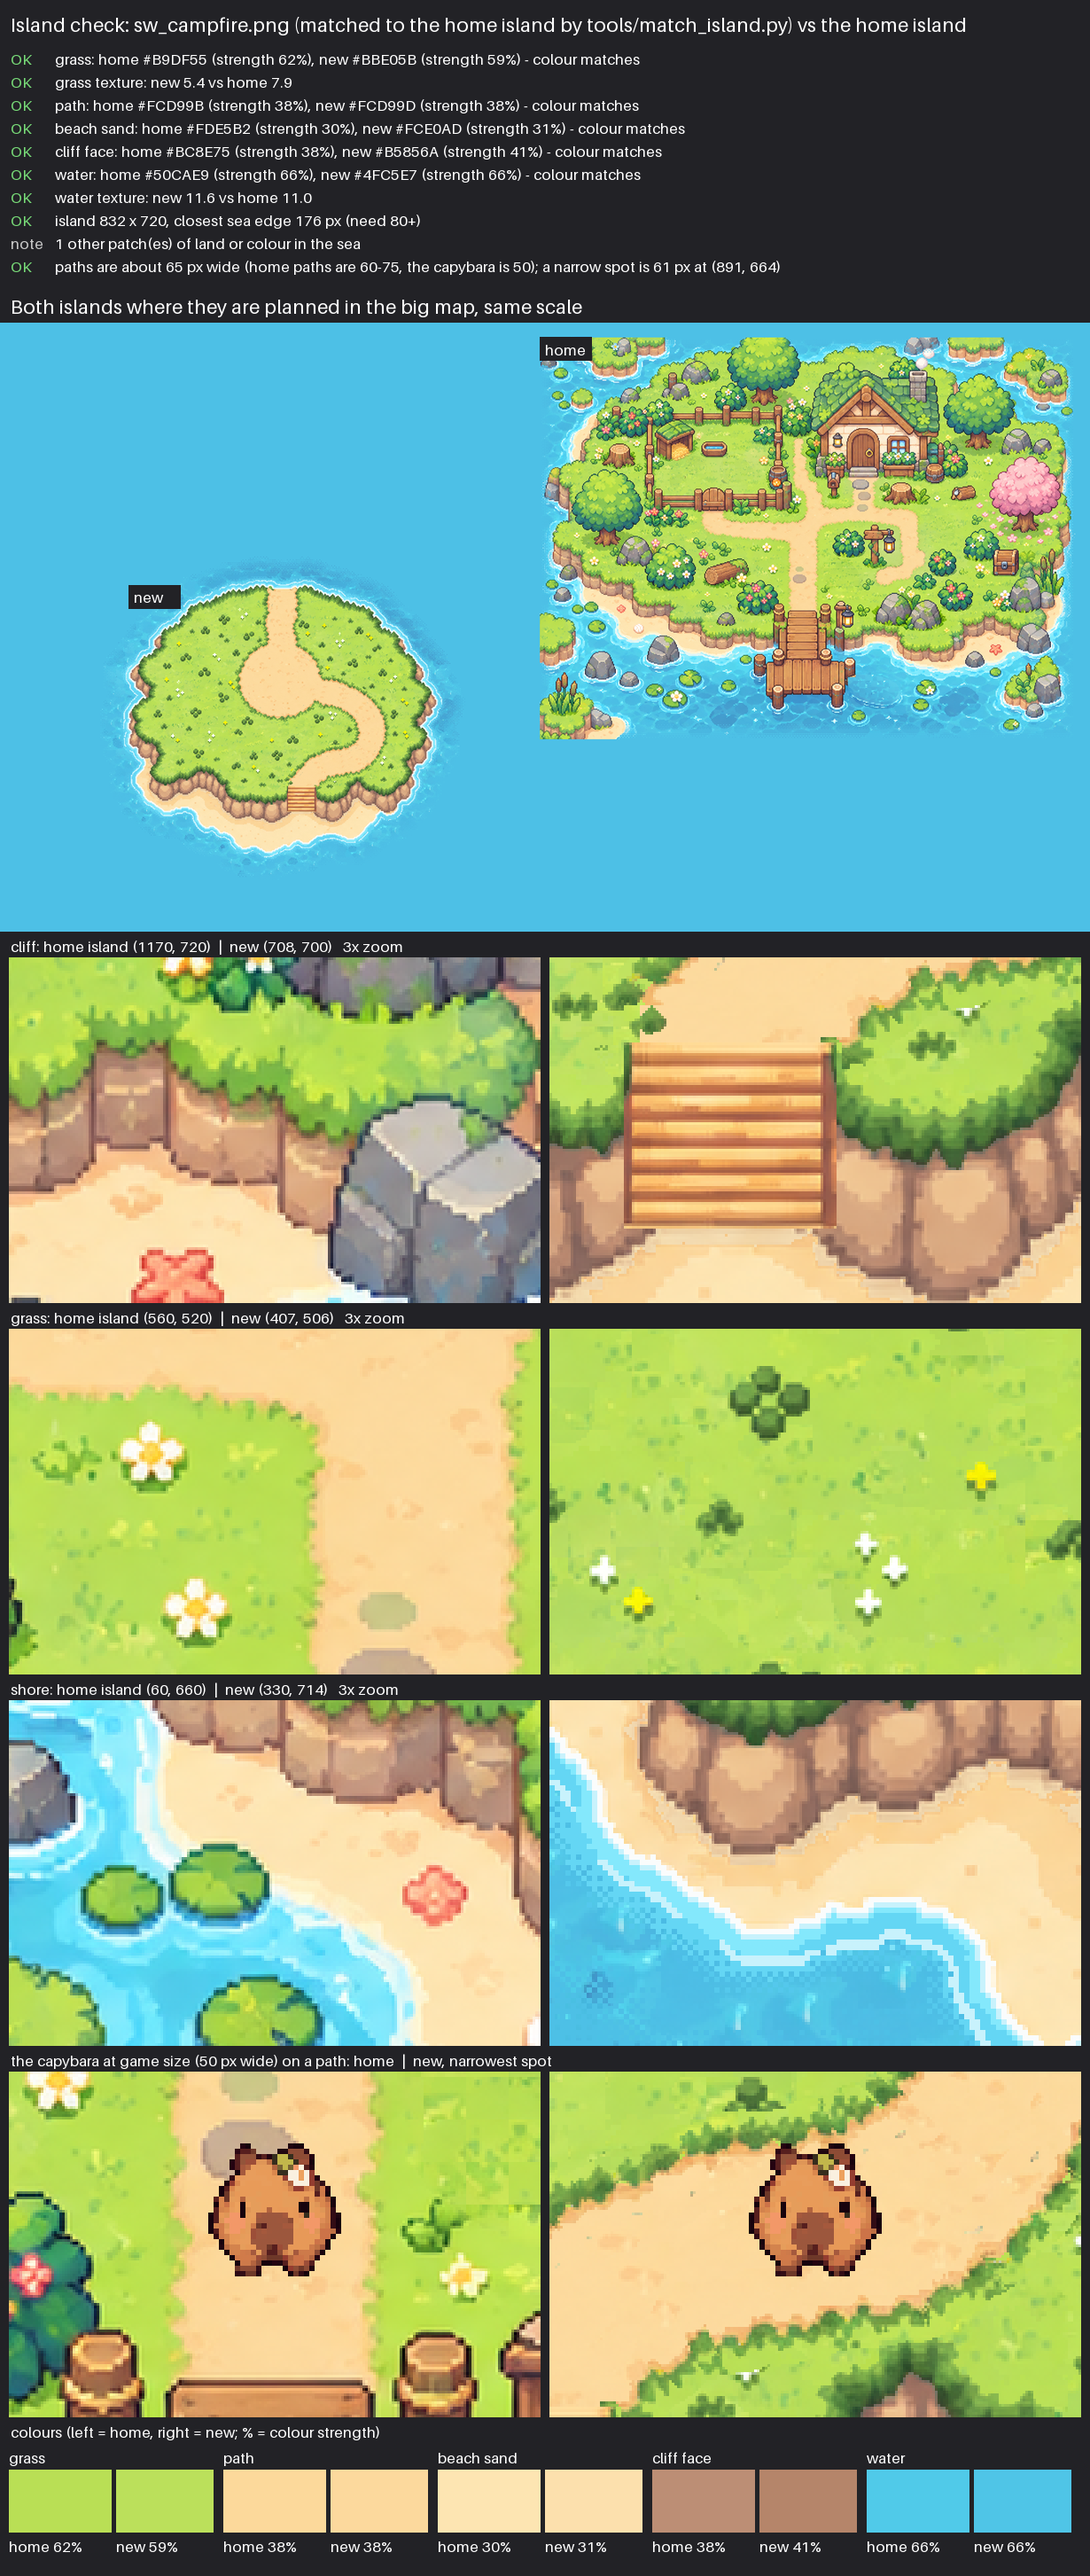
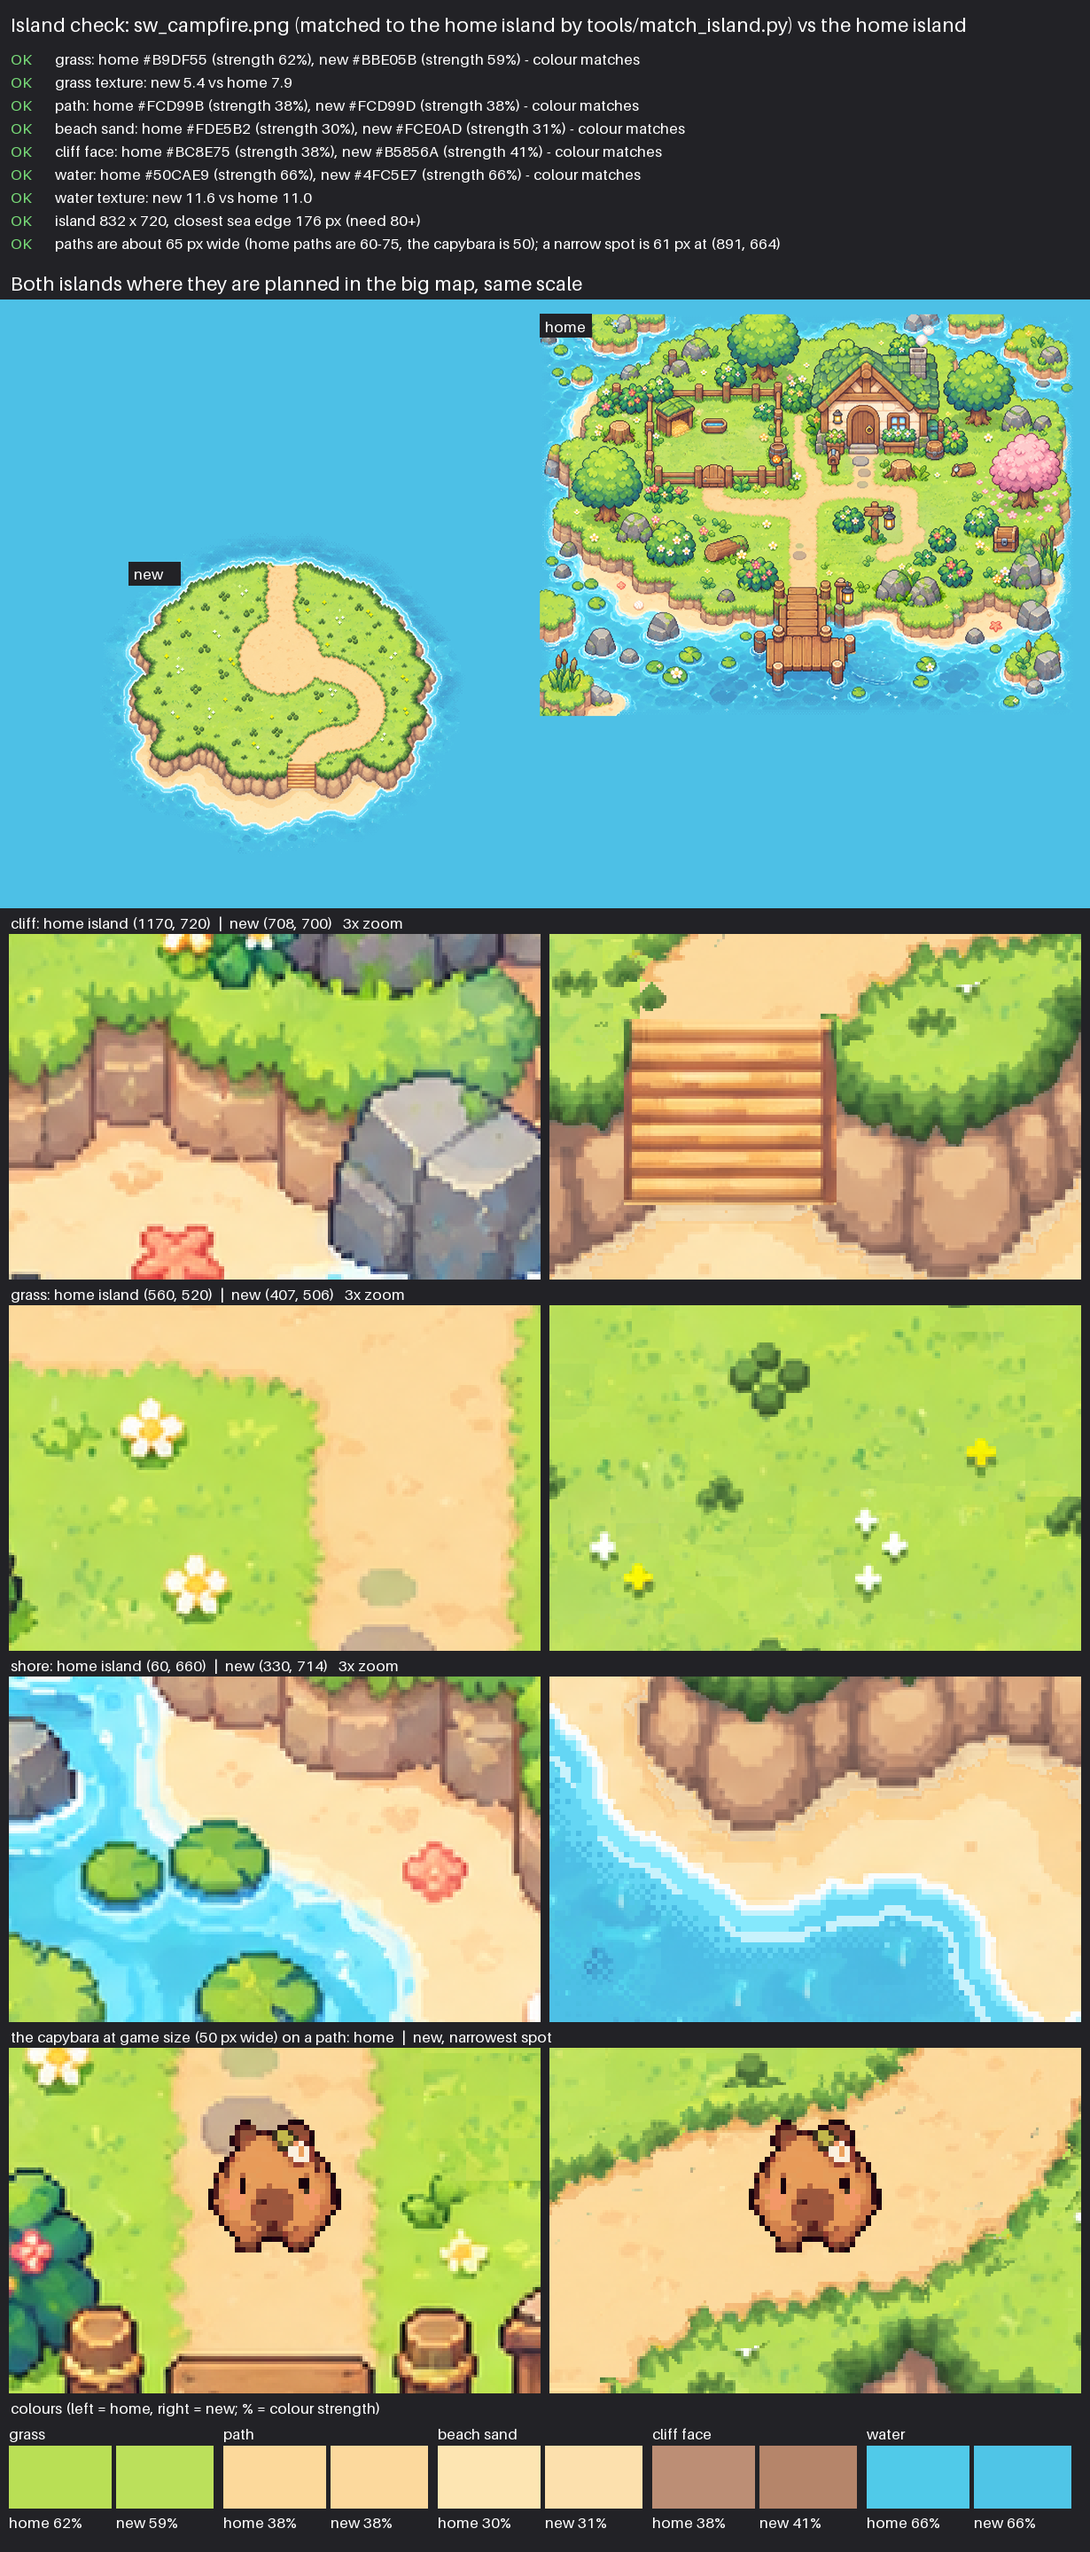
Ready the tools for the islets picture and add its ChatGPT prompt
The islets are eight small islands in one picture, but match_island.py
kept only the biggest piece of land and review_island.py measured only
the biggest island. Both now keep every island (not specks). Doing so
showed two hidden bugs, now fixed: a clean-up step made a hairline
"island" around the picture's border, and the review took the see-
through band outside a piece's fade for land. Both finished islands
check exactly as before.

The ChatGPT prompt asks for a zip with just islets.png inside.

Claude-Session: https://claude.ai/code/session_019WA1pPMdMXVRsKT4arc6i6

diff --git a/tools/review_island.py b/tools/review_island.py
@@ -186,7 +186,8 @@ def main():
     nm = materials(new)
     _, s_new, v_new = hsv(new)
     foam = (v_new > 0.88) & (s_new < 0.12)
-    shore_water = ndimage.distance_transform_edt(nm["water"] | foam) <= 100
+    all_water = nm["water"] | foam                      # for finding the land: every bit of water
+    shore_water = ndimage.distance_transform_edt(all_water) <= 100
     nm["water"] &= shore_water
     if alpha is not None:
         nm["water"] &= alpha >= 128      # only the piece's own water, not the plain sea shown through it
@@ -218,14 +219,18 @@ def main():
                 say(True, f"{NAMES[key]} texture: new {b['tex']:.1f} vs home {a['tex']:.1f}")
 
     # ---- size and sea around the island
-    land = ndimage.binary_opening(~(nm["water"] | ~shore_water) & ~foam, iterations=2)
+    land = ndimage.binary_opening(~all_water, iterations=2)
     lab, n = ndimage.label(land)
     sizes = ndimage.sum(land, lab, range(1, n + 1))
-    big = lab == 1 + int(np.argmax(sizes))
-    ys, xs = np.nonzero(big)
+    keep = 1 + np.flatnonzero(sizes >= max(2000, 0.02 * sizes.max()))    # every island, not specks
+    biggest = lab == 1 + int(np.argmax(sizes))
+    by, bx = np.nonzero(biggest)
+    ys, xs = np.nonzero(np.isin(lab, keep))
     margin = min(xs.min(), ys.min(), W - 1 - xs.max(), H - 1 - ys.max())
-    say(margin >= 80, f"island {xs.max() - xs.min() + 1} x {ys.max() - ys.min() + 1}, closest sea edge {margin} px (need 80+)")
-    specks = int(sum(1 for s in sizes if s > 200)) - 1
+    size = f"{bx.max() - bx.min() + 1} x {by.max() - by.min() + 1}"
+    what = f"island {size}" if len(keep) == 1 else f"{len(keep)} islands, the biggest {size}"
+    say(margin >= 80, f"{what}, closest sea edge {margin} px (need 80+)")
+    specks = int(sum(1 for a in sizes if 200 < a < max(2000, 0.02 * sizes.max())))
     if specks > 0:
         say(None, f"{specks} other patch(es) of land or colour in the sea")
 

diff --git a/tools/match_island.py b/tools/match_island.py
@@ -156,10 +156,11 @@ def segment(img, stairs_boxes=()):
     wl, _ = ndimage.label(white)
     touching = np.unique(wl[ndimage.binary_dilation(blue, iterations=2) & white])
     sea = blue | np.isin(wl, touching[touching > 0])
-    sea = ndimage.binary_closing(sea, iterations=2)
+    sea = ndimage.binary_closing(sea, iterations=2, border_value=1)   # beyond the picture is sea too
+    # every island in the picture (the islets picture has several); specks in the sea don't count
     lab, n = ndimage.label(~sea)
     sizes = ndimage.sum(~sea, lab, range(1, n + 1))
-    land = lab == 1 + int(np.argmax(sizes))
+    land = np.isin(lab, 1 + np.flatnonzero(sizes >= max(2000, 0.02 * sizes.max())))
     land = ndimage.binary_fill_holes(land)
     greenish = (h > 55) & (h < 150) & (s > 0.2) & (v > 0.15)
     yellow = (h >= 48) & (h <= 68) & (s > 0.7) & (v > 0.8)

diff --git a/HANDOFF.md b/HANDOFF.md
@@ -15,7 +15,8 @@ The folder is also on GitHub now: `paper-rockets/pixel-world`, work branch `clau
 
 - **Campfire** (`check/review_sw_campfire.png`, `check/match_sw_campfire.png`): Codex's grass was too strong and flat, the cliffs round orange boulders, the water flat, and the path (~40 px) and stairs (~50 px) only as wide as the capybara. The user asked whether Claude could fix it instead of Codex: `match_island.py` fixed everything but the rounded cliff blocks. Rebuilding those from the home island's slabs looked worse (streaky), so it was dropped.
 - **Meadow** (`check/review_se_meadow.png`, `check/match_se_meadow.png`): the user was away from Codex and used ChatGPT with `concepts/archipelago/CHATGPT_2_se_meadow.md` and three numbered reference pictures. It came out much closer than Codex's first try: ground only, flat tan slab cliffs, textured grass, wide stairs. It needed stronger colours softened, paths widened from ~46 to ~62 px, and 26 px of sea added around it (the land came within 58 px of the picture's edge). The user's zip (`island_ground_only_complete_set.zip`) also had `se_meadow_alt_no_water.png`: that is a different drawing, not a cut-out of `se_meadow.png` (tall pillar cliffs, a small rock, no stairs, land almost touching the edges). It's kept as a spare and not used.
-- **Next islands:** `w_caves_pinktree` (has a pond), `n_orchard` (tilled soil beds), `ne_pond` (a pond) and `islets`. `match_island.py` can't handle ponds or soil yet (see "Fixing new island art"), so either add that first or do `islets` next. Reuse the ChatGPT prompt shape: numbered reference pictures, "picture 1, 2, 3", ground only, and the sizes stated against the pictures.
+- **In progress: the islets**, with ChatGPT: `concepts/archipelago/CHATGPT_3_islets.md` (three numbered reference pictures; ChatGPT hands back a zip with just `islets.png`). Both tools now handle several islands in one picture.
+- **Next islands:** `w_caves_pinktree` (has a pond), `n_orchard` (tilled soil beds), `ne_pond` (a pond) and `islets`. `match_island.py` can't handle ponds or soil yet (see "Fixing new island art"), so either add that first or do `islets` next. Reuse the ChatGPT prompt shape: numbered reference pictures, "picture 1, 2, 3", ground only, the sizes stated against the pictures, and "give it to me as a .zip with just this one picture inside" (the user asked for zips; they come back through the chat as uploads).
 - Other prompts on file: `concepts/archipelago/CODEX_2_next_island.md` (the meadow for Codex, with the updated style rules), and `concepts/archipelago/CODEX_FIX_1_sw_campfire.md` (a Codex redraw of the campfire island, if flat-slab cliffs are ever wanted there). `concepts/archipelago/CODEX_PROMPT.md` has the measured palette, the cliff shape, the texture rule, and the real path and stair widths.
 - The game itself is the normal small Sunny Meadow and works. Both published links were updated on 2026-09-28 with the hiding-spot wiggle fix (Lost Ducklings version 9, Orange Garden version 5).
 

diff --git a/concepts/archipelago/CHATGPT_3_islets.md b/concepts/archipelago/CHATGPT_3_islets.md
@@ -1,0 +1,31 @@
+# ChatGPT image prompt 3: the islets
+
+For ChatGPT image generation. Attach these three pictures, in this order, with the prompt:
+
+1. `source_art/school/ground/map_ground.png`: a finished ground-only map (the style to copy)
+2. `source_art/tiny_map.png`: the home island (the style and the scale)
+3. `concepts/archipelago/ref_islets.png`: concept sketch of the islets (the look)
+
+ChatGPT delivers a zip with one picture, `islets.png`. The user sends the zip here. Save the picture as `source_art/archipelago/ground/islets.png`, then run `tools/review_island.py` and `tools/match_island.py` on it (both handle several islands in one picture).
+
+Copy everything below the line into ChatGPT.
+
+---
+
+I'm attaching 3 pictures from my top-down pixel-art game. Please make one new picture.
+
+Picture 1: a finished ground-only map from the game. Copy its style exactly: the grass, the flat tan stone cliffs, the sand and the water.
+Picture 2: my home island, for the same art style and scale. It also has trees, a house, fences, rocks and animals. Do NOT copy any of those.
+Picture 3: a sketch of the kind of small islands (islets) I want: round grassy tops, flat tan cliff faces on their south side, and a thin sand rim on some. Ignore the reeds, rocks, lily pads, dock and bridge in it.
+
+Make a GROUND-ONLY picture of 8 separate small islands in open sea:
+- Landscape 4:3 (1448 × 1086).
+- Sizes, at the same scale as picture 2: two islands about 420 × 320 px, three about 300 × 260 px, and three about 200 × 180 px. Give them different, natural shapes.
+- At least 120 px of open sea between the islands, and at least 90 px between any island and the edge of the picture.
+- Each island: a grass top with tiny flat flowers and tufts, a cliff face on its south side (30–50 px tall), a thin sand rim, and a white foam line where it meets the water.
+- Only ground: nothing standing on the islands. No trees, bushes, rocks, reeds, logs, stumps, fences, signs, docks, bridges, boats, lily pads, animals, people, text or borders.
+- Cliffs: flat-fronted, squarish tan stone slabs with thin dark cracks, like picture 1. Not round boulders, and not orange.
+- The same soft colours as pictures 1 and 2, nothing brighter. The grass isn't one flat colour: it has small lighter and darker patches and tiny tufts, like picture 1. The water has a light shallow band along each shore, then ripples.
+- The same top-down 3/4 view, light from the top-left, and the same chunky pixel size as picture 2. No blur.
+
+When the picture is done, give it to me as a .zip file to download, with just this one picture inside, named islets.png (PNG, 1448 × 1086). No other versions.
